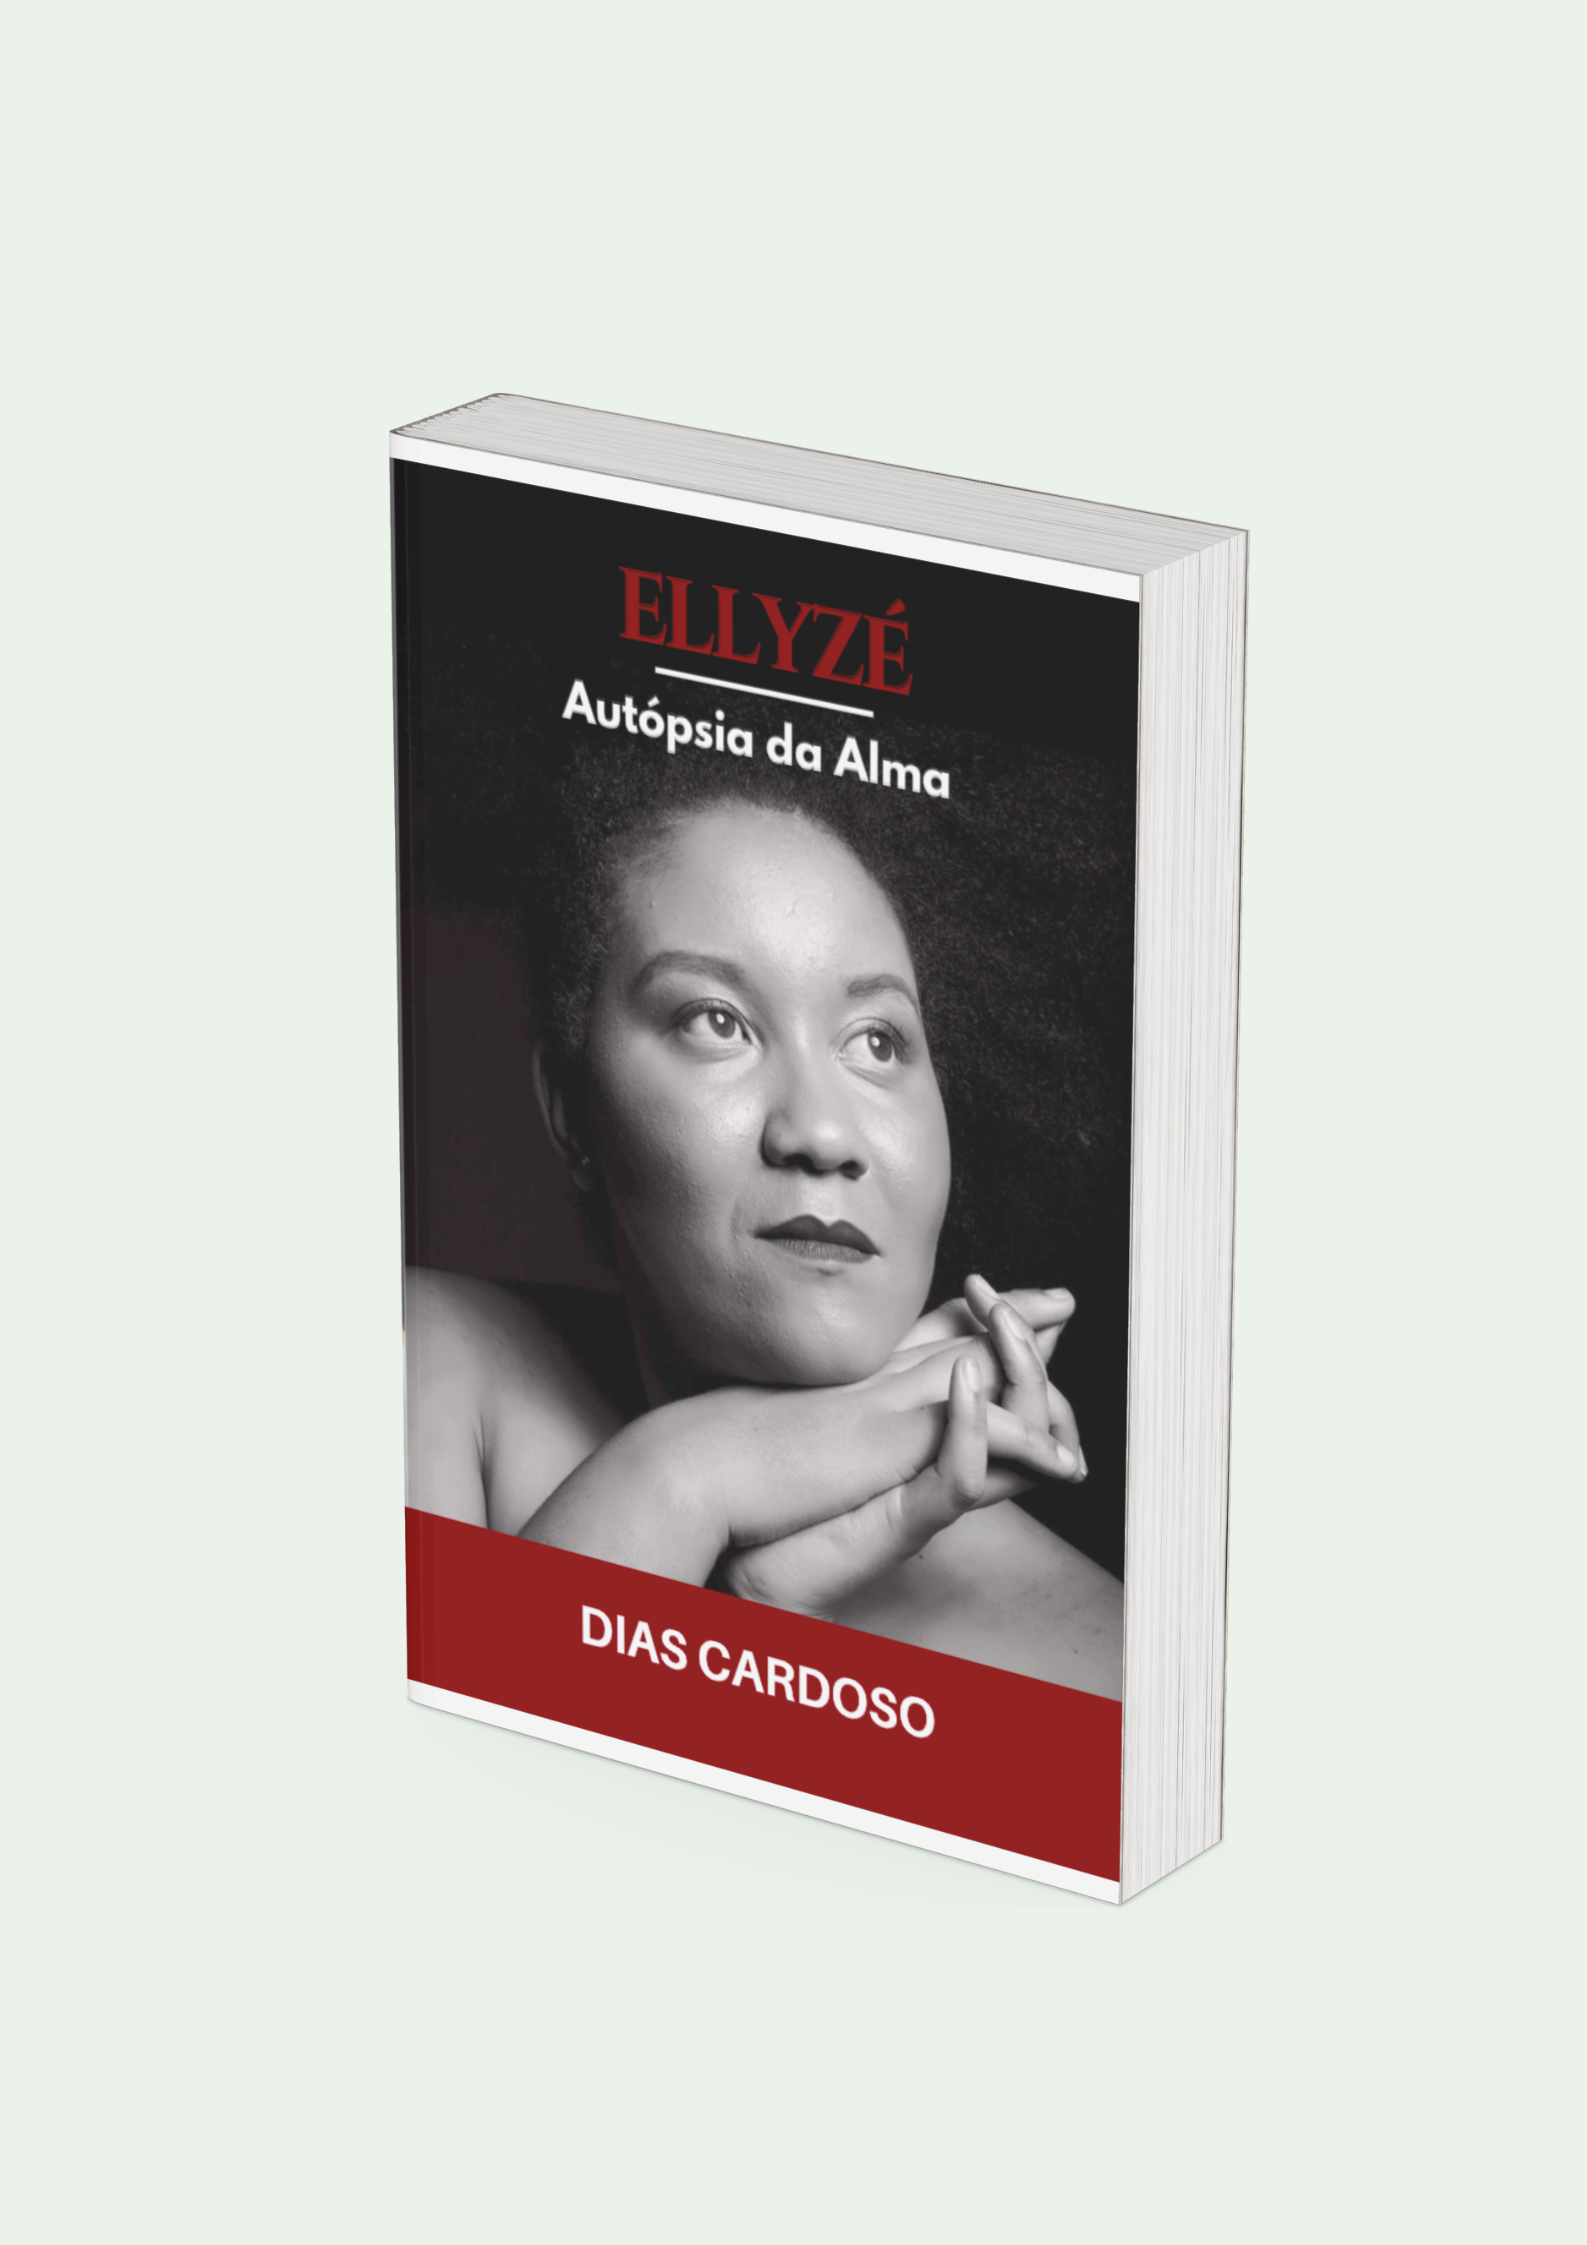
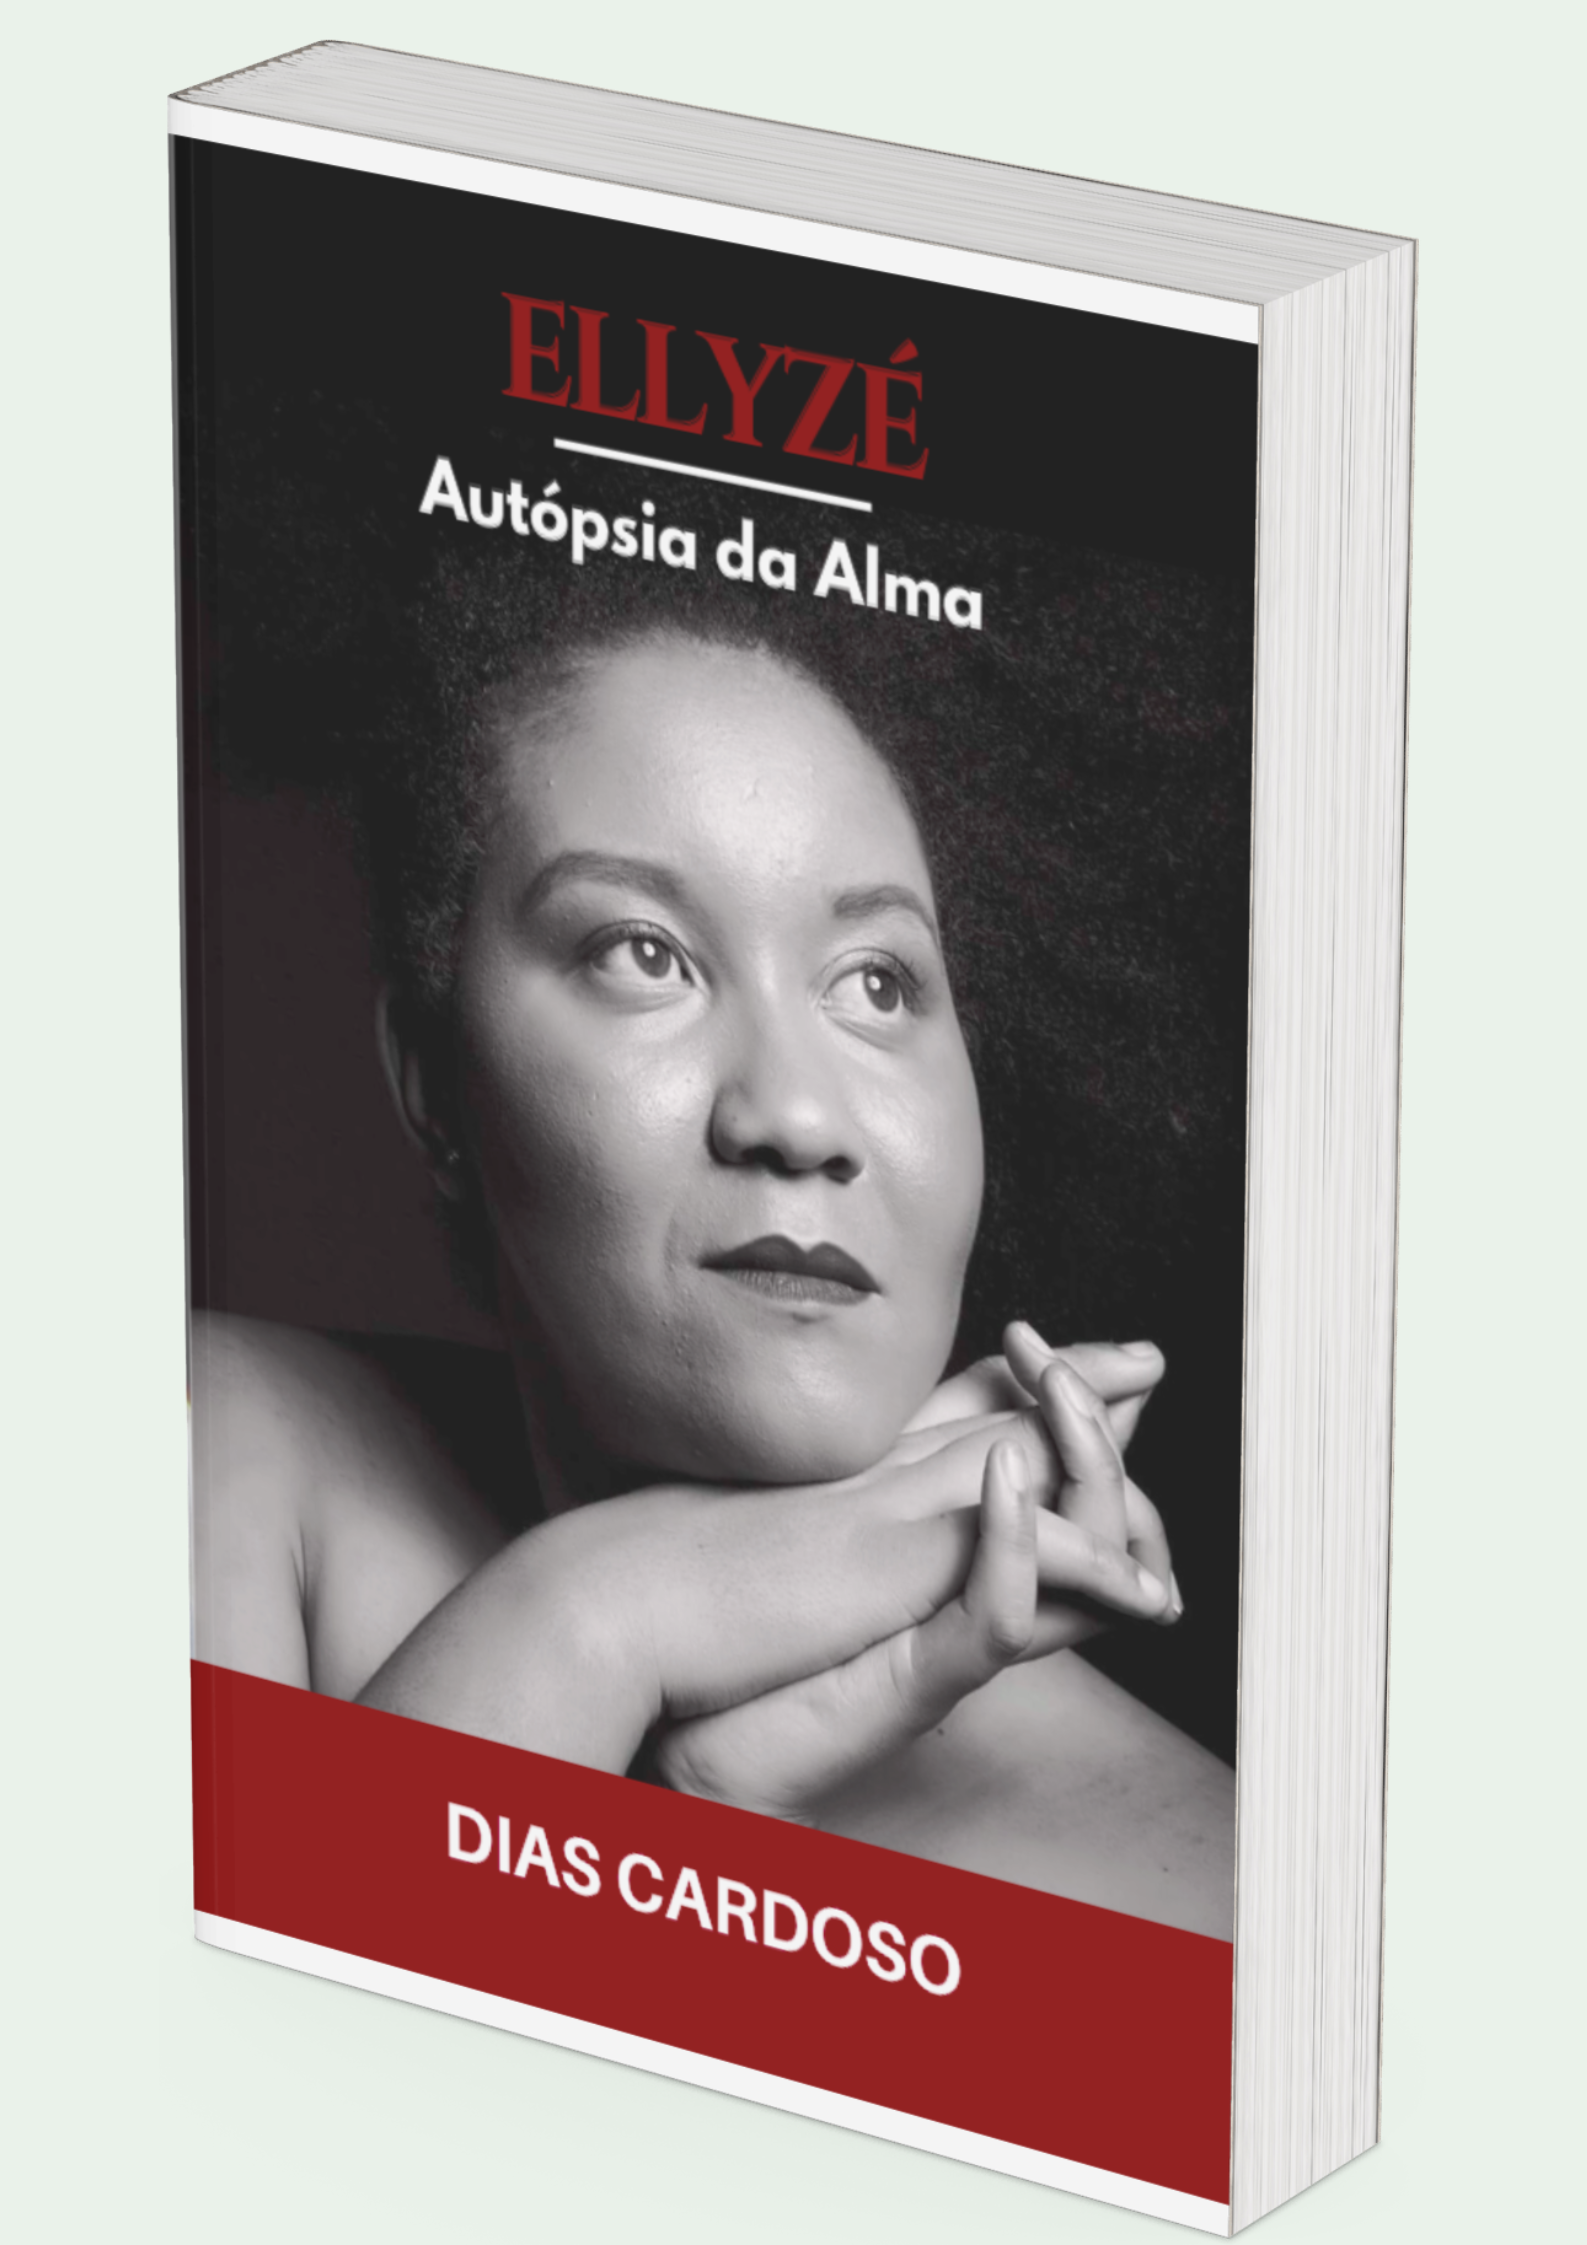
Made some adjustments to the paddings Changed the cover image

diff --git a/style.css b/style.css
@@ -2,23 +2,31 @@ body {
   padding: 0 100px;
   background-color: #eaf2ea;
 }
+section {
+  padding: 32px 0;
+}
 
 nav {
   padding: 0;
 }
 .banner {
-  padding: 140px 20px;
+  padding: 20px;
   display: flex;
   justify-content: space-between;
   align-items: center;
 }
 .banner h2 {
-  font-size: 66px;
+  font-size: 90px;
   padding: 0;
+  margin-bottom: 0;
+}
+.banner h3 {
+  font-size: 60px;
+  margin-top: 10px;
 }
 .book-cover {
-  width: 50%;
-  height: 50%;
+  width: 30%;
+  height: 30%;
 }
 .cover {
   width: 100%;
@@ -53,8 +61,8 @@ section h2 {
   align-items: center;
 }
 .book-pic {
-  width: 26%;
-  height: 26%;
+  width: 16%;
+  height: 16%;
 }
 .description-cover {
   width: 100%;

diff --git a/index.html b/index.html
@@ -13,7 +13,7 @@
     </nav>
     <div class="banner">
       <div>
-        <h2>ELLIZÉ</h2>
+        <h2>ELLYZÉ</h2>
         <h3>Autópsia da Alma</h3>
         <a href="https://buy.stripe.com/test_cN228maVWbF2dvG9AA"><button class="btn">Comprar</button></a>
       </div>
